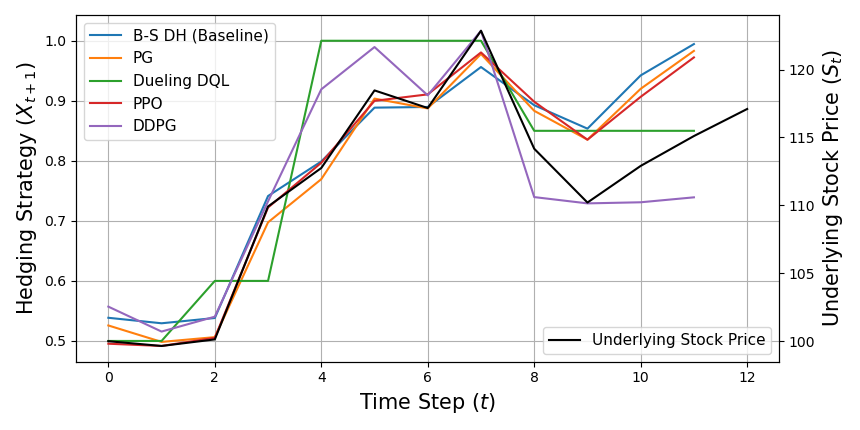
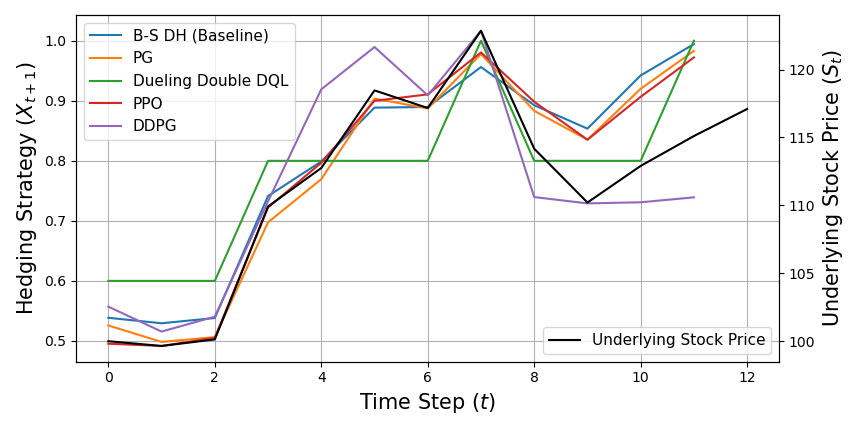
pushing to pull updates

diff --git a/option_hedging/Deep_Hedging_Experiments.py b/option_hedging/Deep_Hedging_Experiments.py
@@ -25,7 +25,7 @@ import shutil
 import subprocess
 
 start_total_time = datetime.datetime.now()
-episodes = 500000
+episodes = 1000000
 trans_costs = 0.00              #proportional transaction costs 0.0 or 0.01
 twin_delayed=False
 double=False
@@ -163,10 +163,10 @@ def generate_garch_dataset(dataset_type="train_set", size=train_size):
         torch.save(dataset, global_path_prefix  + "option_hedging/" + str(dataset_type))
 
 """Training the garch model and generating the datasets"""
-train_garch()
-generate_garch_dataset(dataset_type="train_set", size=train_size)
-generate_garch_dataset(dataset_type="val_set", size=val_size)
-generate_garch_dataset(dataset_type="test_set", size=test_size)
+# train_garch()
+# generate_garch_dataset(dataset_type="train_set", size=train_size)
+# generate_garch_dataset(dataset_type="val_set", size=val_size)
+# generate_garch_dataset(dataset_type="test_set", size=test_size)
 
 # Select the device
 if cpu:
@@ -215,6 +215,7 @@ for i in range(10):
     if i == 0:
         bs_actions = deltas_DH
         rsmse_DH_leland = rsmse_leland
+        test_set_DH = test_set_BS
 
 print("bs_rsmse_list: ", bs_rsmse_list)
 print("AVERAGE RSMSE B-S DH: ", np.mean(bs_rsmse_list).item())
@@ -808,8 +809,8 @@ discretized_actions = np.arange(start=-0.5, stop=2.0, step=0.05)
 # dqn_actions = discretized_actions[train_test_dqn(train=True, dueling=False, double=False).astype(int)]
 double_dqn_actions = discretized_actions[train_test_dqn(train=True, dueling=False, double=True).astype(int)]
 # dueling_dqn_actions = discretized_actions[train_test_dqn(dueling=True, double=False).astype(int)]
-# dueling_double_dqn_actions = discretized_actions[train_test_dqn(dueling=True, double=True).astype(int)]
-# ppo_actions = train_test_ppo()
+# dueling_double_dqn_actions = discretized_actions[train_test_dqn(train=True, dueling=True, double=True).astype(int)]
+# ppo_actions = train_test_ppo(train=True)
 # ddpg_actions = train_test_ddpg()
 
 # model_actions = np.stack([pg_actions, dqn_actions, double_dqn_actions, dueling_dqn_actions, dueling_double_dqn_actions, ppo_actions, ddpg_actions])
@@ -823,7 +824,7 @@ double_dqn_actions = discretized_actions[train_test_dqn(train=True, dueling=Fals
 # model_actions = np.stack([model_actions[0,:,:], model_actions[4,:,:], model_actions[5,:,:], model_actions[6,:,:]])
 # model_labels = ["PG", "Dueling Double DQL", "PPO", "DDPG"]
 
-# plot_actions(test_set_BS[:,0], bs_actions[:,0], model_actions[:,:,0], model_labels)
+# plot_actions(test_set_DH[:,0], bs_actions[:,0], model_actions[:,:,0], model_labels)
 
 
 # tune_dqn()
